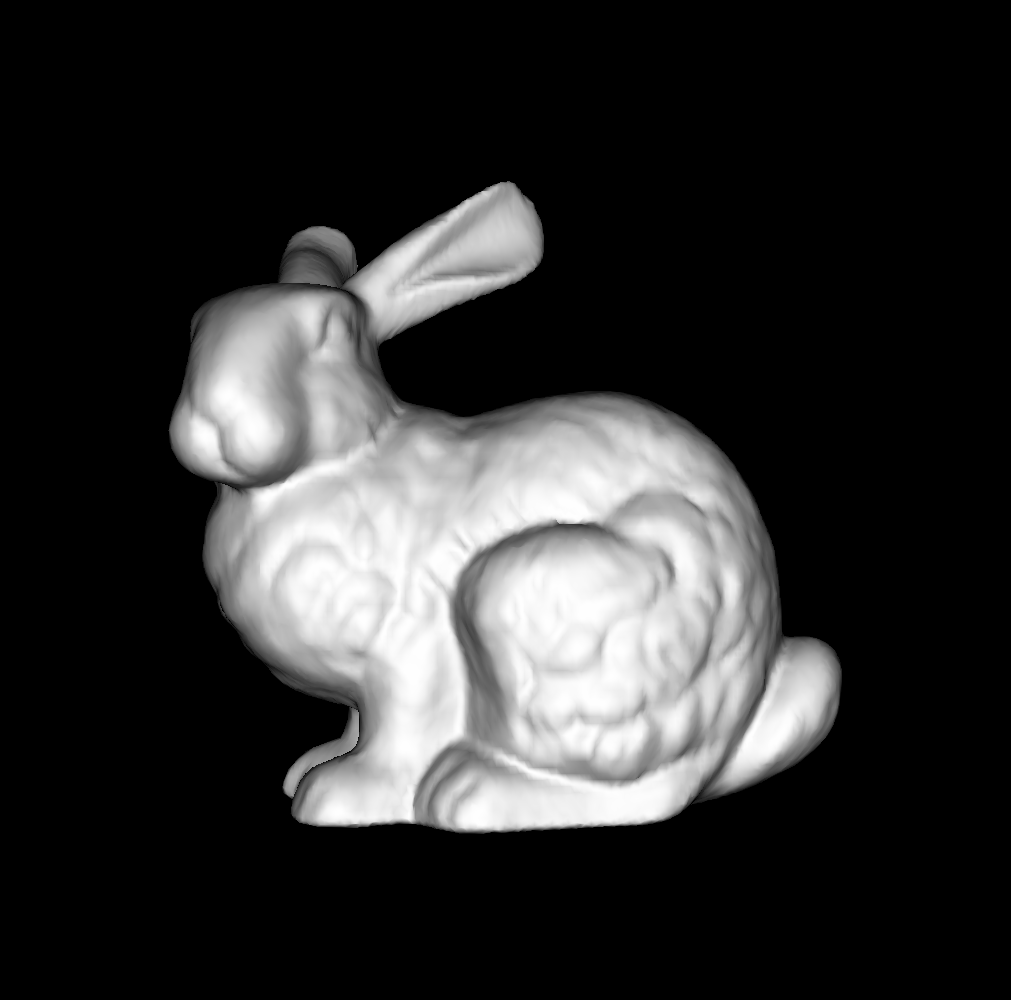
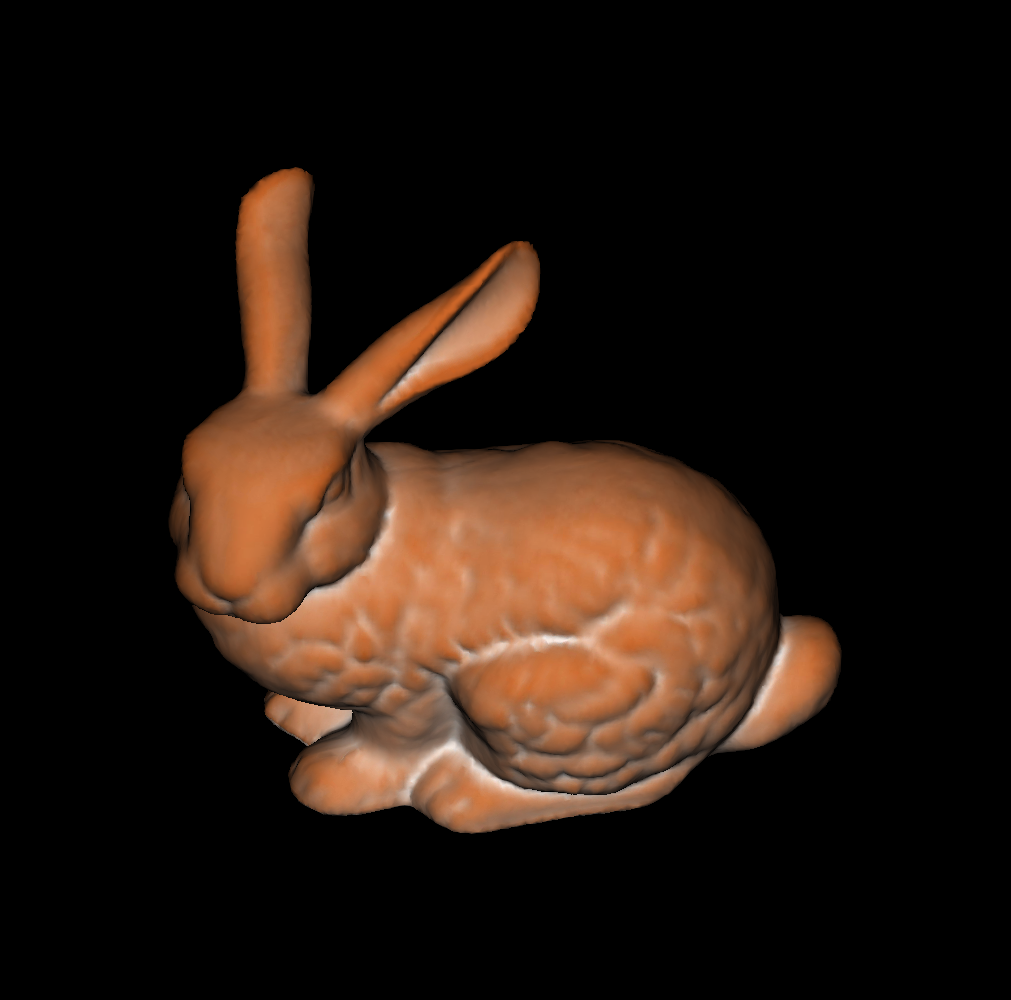
add camera transformations

Changed region(s): [[0.1533, 0.155, 0.8586, 0.837]]

diff --git a/render.go b/render.go
@@ -268,12 +268,26 @@ func (m *Model) setMinMax(x, y float64) {
 	m.max_y = math.Max(m.max_y, y)
 }
 
-func (m *Model) transformCoordinates() {
+func (m *Model) transformCoordinates(eye *Vec3f, center *Vec3f, up *Vec3f) {
 	// transform world vertices (projection, rotation, etc)
-	c := 0.5
+	
+	// Compute camera scene basis
+	b3 := eye.subtract(center, false)
+	b3.normalizeL2()
+	b1 := cross(up, &b3)
+	b1.normalizeL2()
+	b2 := cross(&b3, &b1)
+	b2.normalizeL2()
+
+	//c := 0.5
 	for i:=0; i<m.nVertices(); i++ {
-		z := m.vertices[i].z
-		m.vertices[i].div(1 - z / c, true) 
+		// z := m.vertices[i].z
+		//m.vertices[i].div(1 - z / c, true) 
+		v := &m.vertices[i]
+		x := v.x * b1.x + v.y * b2.x + v.z * b3.x
+		y := v.x * b1.y + v.y * b2.y + v.z * b3.y
+		z := v.x * b1.z + v.y * b2.z + v.z * b3.z
+		v.x, v.y, v.z = x, y, z
 		m.setMinMax(m.vertices[i].x, m.vertices[i].y)
 	}
 	return
@@ -405,12 +419,16 @@ func triangle(
 			if (*zbuffer)[int(P.x + P.y * float64(width))] < P.z {
 				(*zbuffer)[int(P.x + P.y * float64(width))] = P.z
 				I := phongShading(vertexNormals, lightDir, &v)
-				//fill := getColorFromTexture(textureImage, vertexTextures, &v, I)
-				//I := flatShading(faceNormal, lightDir)
-				if I > 0 {
-					//fill := color.RGBA{uint8(float64(fillColor.R) * I),uint8(float64(fillColor.G) * I),uint8(float64(fillColor.B) * I), fillColor.A}
+
+				var fill color.RGBA
+				if textureImage == nil {
+					// default color white
 					r, g, b := fillColor.R, fillColor.G, fillColor.B
-					fill := color.RGBA{uint8(float64(r) * I),uint8(float64(g) * I),uint8(float64(b) * I), 255}
+					fill = color.RGBA{uint8(float64(r) * I),uint8(float64(g) * I),uint8(float64(b) * I), 255}
+				} else {
+					fill = getColorFromTexture(textureImage, vertexTextures, &v, I)
+				}
+				if I > 0 {
 					img.Set(int(P.x), int(P.y), fill)
 				}
 			}
@@ -434,7 +452,10 @@ func renderWireframe(model *Model, img *image.RGBA, color *color.RGBA, width int
 	}
 }
 
-func renderTriangleMesh(model *Model, img *image.RGBA, textureImage *image.Image, fillColor *color.RGBA, lightDir *Vec3f, width int, height int, scale float64) {
+func renderTriangleMesh(
+	model *Model, img *image.RGBA, textureImage *image.Image, 
+	fillColor *color.RGBA, lightDir *Vec3f, eye *Vec3f, center *Vec3f, up *Vec3f,
+	width int, height int, scale float64) {
 	// fill
 	lightDir.normalizeL2()
 
@@ -446,7 +467,7 @@ func renderTriangleMesh(model *Model, img *image.RGBA, textureImage *image.Image
 	// Transform coordinates
 	model.centerAlignShift() // center cooridnates so they are zero-centered
 	// Now camera is centered
-	model.transformCoordinates() // Do projections and other transformations, update coordinates
+	model.transformCoordinates(eye, center, up) // Do projections and other transformations, update coordinates
 
 	// Compute normals
 	model.computeFaceNormals()
@@ -547,18 +568,24 @@ func main() {
 		os.Exit(1)
 	}
 
-
 	objPath := os.Args[1]
+	fmt.Println("Using .obj file: ", objPath)
 	model := parseObj(objPath)
 
 	var texturePath string
 	if len(os.Args) > 2 {
 		texturePath = os.Args[2]
+		fmt.Println("Using texture file: ", texturePath)
+	} else {
+		fmt.Println("No texture file specified. Using default color (white).")
 	}
-	fmt.Println(texturePath)
+
 	file, _ := os.Open(texturePath)
+	if file == nil {
+		fmt.Println("Texture file does not exist. Using default color (white).")
+	}
 	textureImage, _, _ := image.Decode(file)
-	
+
 	fmt.Println("Number of faces: ", model.nFaces())
 	fmt.Println("Number of vertices: ", model.nVertices())
 	fmt.Println("Number of textures coordinates: ", len(model.textureCoordinates))
@@ -570,9 +597,19 @@ func main() {
 	// Render
 	//renderWireframe(&model, img, &color.RGBA{0, 0, 0, 255}, width, height, 2.0)
 	lightDir := newVec3f(0, 0, -1)
-	renderTriangleMesh(
-		&model, img, &textureImage, &color.RGBA{255, 255, 255, 255}, 
-		&lightDir, width, height, 1.5)
+	eye := newVec3f(0, -1, 1)
+	center := newVec3f(0, 0, 0)
+	up := newVec3f(0, 1, 0)
+
+	if textureImage == nil {
+		renderTriangleMesh(
+			&model, img, nil, &color.RGBA{255, 255, 255, 255}, 
+			&lightDir, &eye, &center, &up, width, height, 1.5)
+	} else {
+		renderTriangleMesh(
+			&model, img, &textureImage, nil, 
+			&lightDir, &eye, &center, &up, width, height, 1.5)
+	}
 
 	// Save
 	f, _ := os.Create("./results/test.png")
